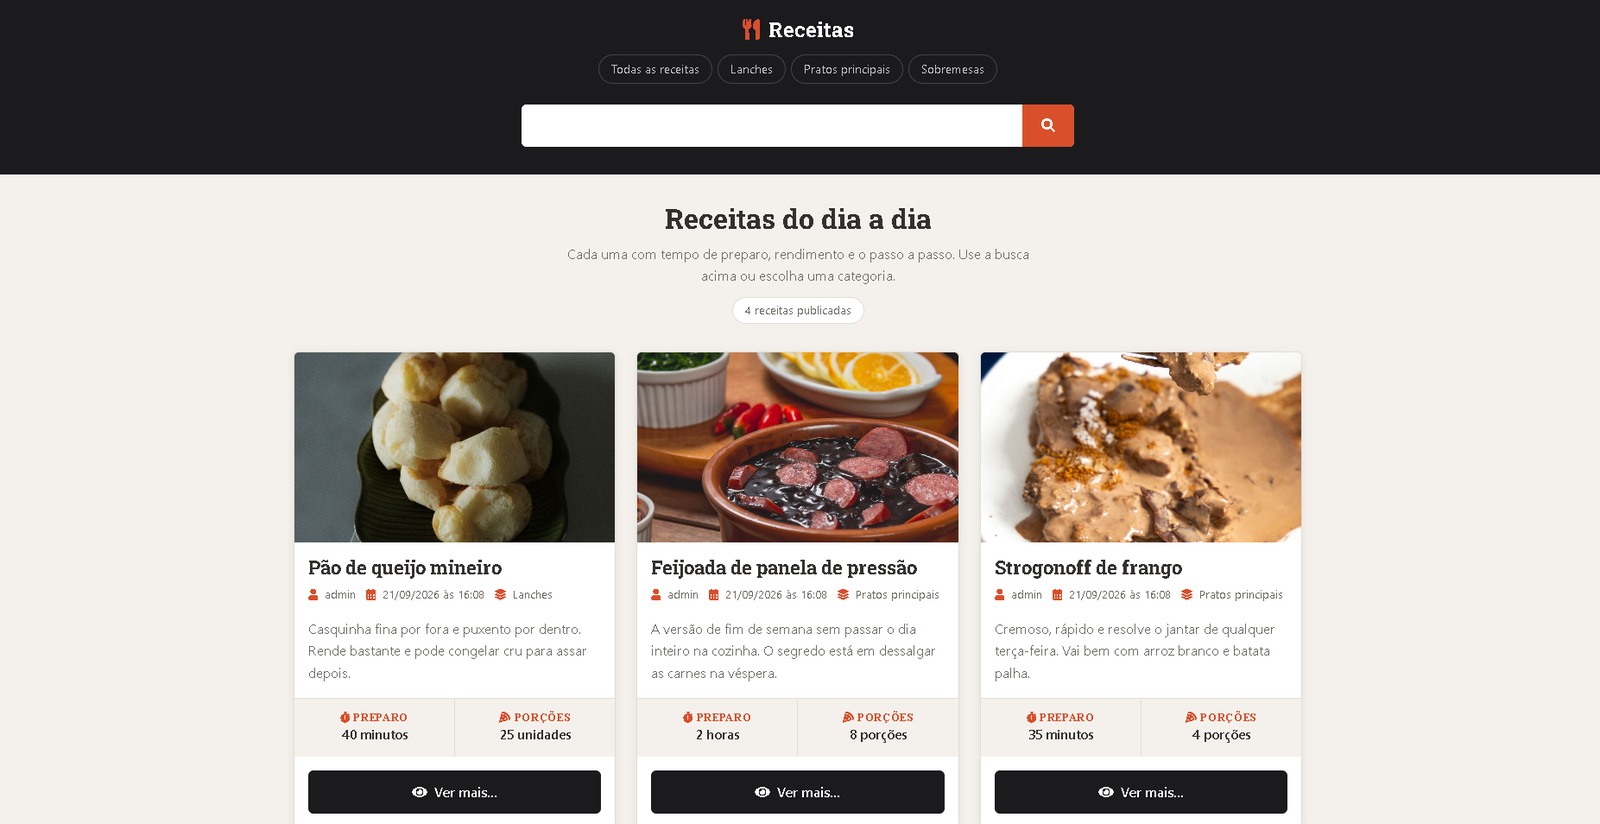
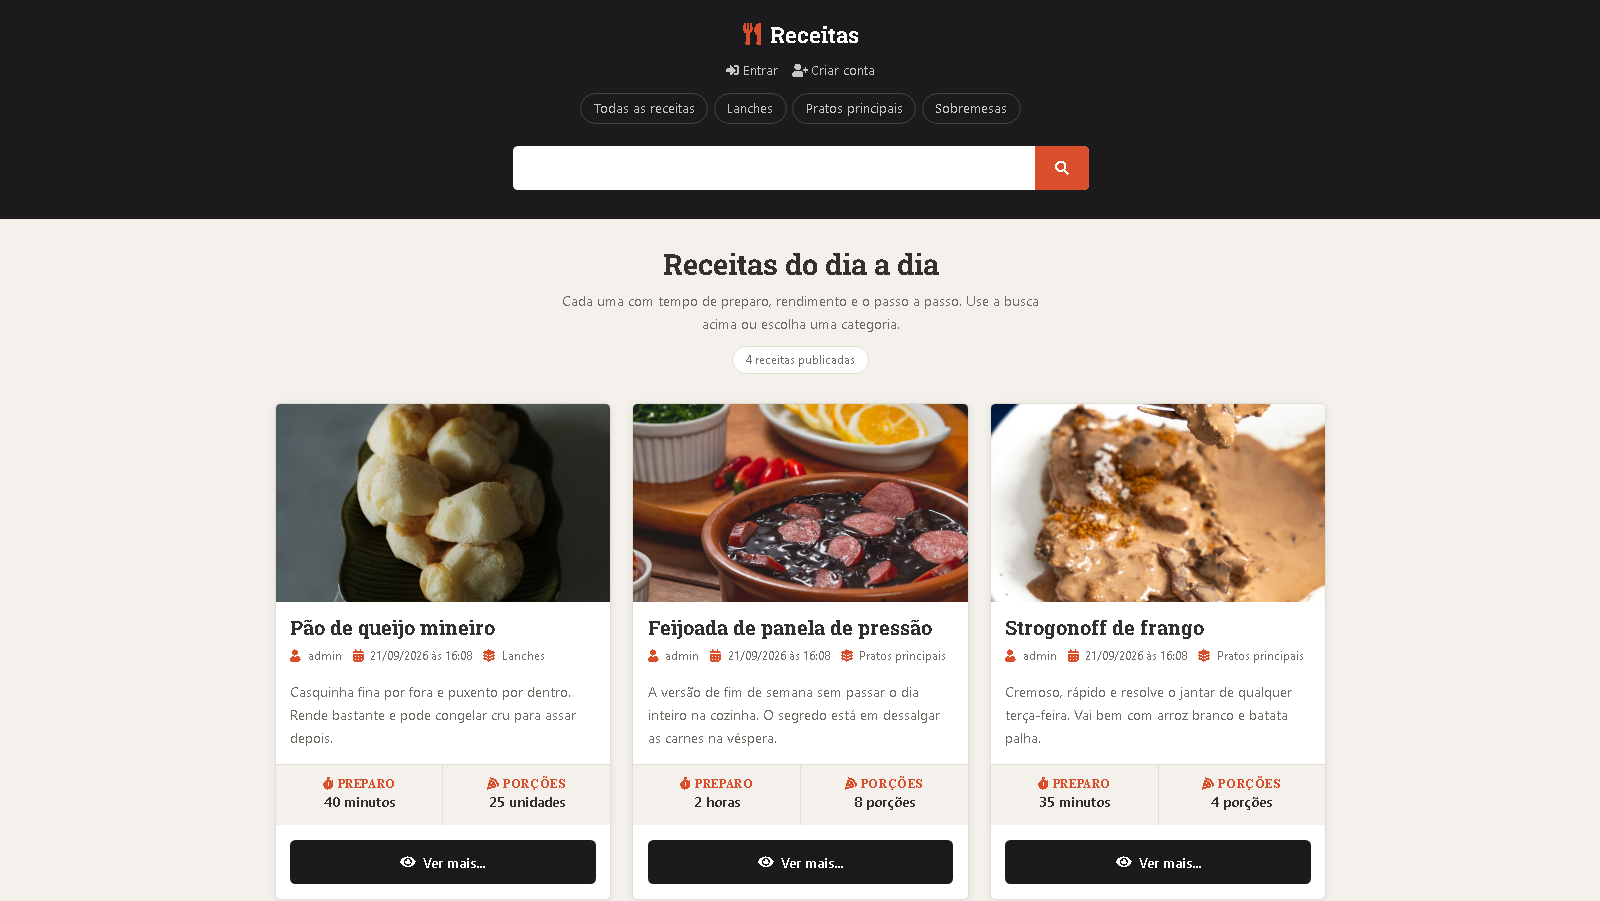
docs: atualiza screenshot da home com o cabeçalho novo

Changed region(s): [[0.0, 0.0303, 1.0, 1.0]]

diff --git a/README.md b/README.md
@@ -9,7 +9,7 @@ Site de receitas feito em Django. É um projeto de estudo, escrito com TDD: os t
 
 [English version](README.en.md)
 
-![Home do Recipes: cabeçalho com menu de categorias, busca e a lista de receitas em cards](docs/home.png)
+![Home do Recipes: cabeçalho com links para entrar e criar conta, menu de categorias, busca e a lista de receitas em cards](docs/home.png)
 
 ## O que ele faz
 

diff --git a/README.en.md b/README.en.md
@@ -9,7 +9,7 @@ A recipe site built with Django. It's a study project, written test-first.
 
 [Versão em português](README.md)
 
-![Recipes home page: header with category menu, search, and the recipe list as cards](docs/home.png)
+![Recipes home page: header with log in and sign up links, category menu, search, and the recipe list as cards](docs/home.png)
 
 ## What it does
 
